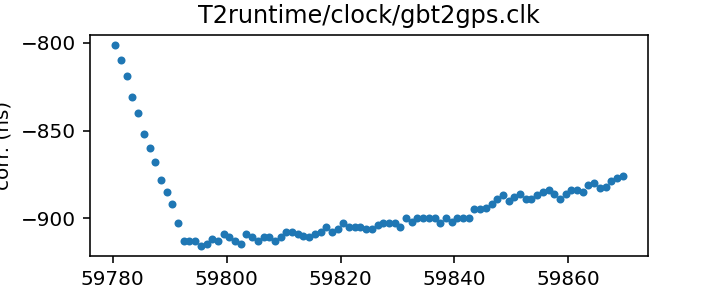
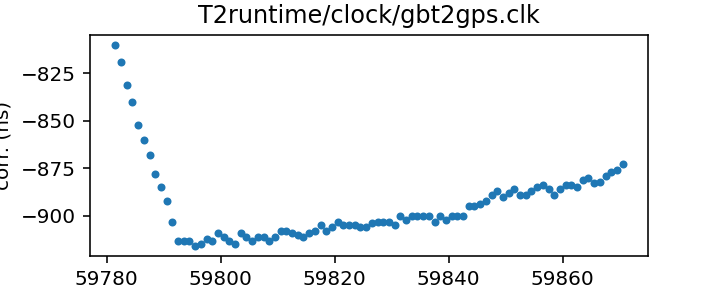
Routine gh-pages update from Github action Wed Oct 19 20:44:15 UTC 2022

diff --git a/status.md b/status.md
@@ -13,17 +13,17 @@ name of each clock file links to a page with more details.
 
 | Name | File | Corrections start | Corrections end | Last check date | Last check result 
 |:--- |:--- | --- | --- | --- |:--- 
-| [GPS to UTC](T2runtime/clock/gps2utc.clk.html) | `T2runtime/clock/gps2utc.clk` | 1993-01-01 MJD 48988.0 | 2022-09-27 MJD 59849.0 | 2022-10-18 | Unchanged 
-| [GPS to UTC (Combined Clock)](T2runtime/clock/gps2utc_cc.clk.html) | `T2runtime/clock/gps2utc_cc.clk` | 1993-01-01 MJD 48988.0 | 2022-09-27 MJD 59849.0 | 2022-10-18 | Unchanged 
-| [GPS to UTC (Corrected)](T2runtime/clock/gps2utc_c0p.clk.html) | `T2runtime/clock/gps2utc_c0p.clk` | 2010-12-29 MJD 55559.0 | 2022-09-27 MJD 59849.0 | 2022-10-18 | Unchanged 
-| [GBT](tempo/clock/time_gbt.dat.html) | `tempo/clock/time_gbt.dat` | 2000-12-31 MJD 51909.5 | 2022-10-17 MJD 59869.5 | 2022-10-18 | Updated 
-| [GBT (TEMPO2 converted from TEMPO)](T2runtime/clock/gbt2gps.clk.html) | `T2runtime/clock/gbt2gps.clk` | 2000-12-31 MJD 51909.5 | 2022-10-17 MJD 59869.5 | 2022-10-18 | Updated 
-| [Jodrell Bank](T2runtime/clock/jb2gps.clk.html) | `T2runtime/clock/jb2gps.clk` | 2006-10-13 MJD 54021.4 | 2021-11-03 MJD 59521.0 | 2022-10-12 | Unchanged 
-| [Jodrell Bank Roach](T2runtime/clock/jbroach2jb.clk.html) | `T2runtime/clock/jbroach2jb.clk` | 2006-10-13 MJD 54021.4 | 2018-03-20 MJD 58197.6 | 2022-10-12 | Unchanged 
-| [Jodrell Bank DFB](T2runtime/clock/jbdfb2jb.clk.html) | `T2runtime/clock/jbdfb2jb.clk` | 2006-10-13 MJD 54021.4 | 2017-05-11 MJD 57884.0 | 2022-10-12 | Unchanged 
+| [GPS to UTC](T2runtime/clock/gps2utc.clk.html) | `T2runtime/clock/gps2utc.clk` | 1993-01-01 MJD 48988.0 | 2022-09-27 MJD 59849.0 | 2022-10-19 | Unchanged 
+| [GPS to UTC (Combined Clock)](T2runtime/clock/gps2utc_cc.clk.html) | `T2runtime/clock/gps2utc_cc.clk` | 1993-01-01 MJD 48988.0 | 2022-09-27 MJD 59849.0 | 2022-10-19 | Unchanged 
+| [GPS to UTC (Corrected)](T2runtime/clock/gps2utc_c0p.clk.html) | `T2runtime/clock/gps2utc_c0p.clk` | 2010-12-29 MJD 55559.0 | 2022-09-27 MJD 59849.0 | 2022-10-19 | Unchanged 
+| [GBT](tempo/clock/time_gbt.dat.html) | `tempo/clock/time_gbt.dat` | 2000-12-31 MJD 51909.5 | 2022-10-18 MJD 59870.5 | 2022-10-19 | Updated 
+| [GBT (TEMPO2 converted from TEMPO)](T2runtime/clock/gbt2gps.clk.html) | `T2runtime/clock/gbt2gps.clk` | 2000-12-31 MJD 51909.5 | 2022-10-18 MJD 59870.5 | 2022-10-19 | Updated 
+| [Jodrell Bank](T2runtime/clock/jb2gps.clk.html) | `T2runtime/clock/jb2gps.clk` | 2006-10-13 MJD 54021.4 | 2021-11-03 MJD 59521.0 | 2022-10-19 | Unchanged 
+| [Jodrell Bank Roach](T2runtime/clock/jbroach2jb.clk.html) | `T2runtime/clock/jbroach2jb.clk` | 2006-10-13 MJD 54021.4 | 2018-03-20 MJD 58197.6 | 2022-10-19 | Unchanged 
+| [Jodrell Bank DFB](T2runtime/clock/jbdfb2jb.clk.html) | `T2runtime/clock/jbdfb2jb.clk` | 2006-10-13 MJD 54021.4 | 2017-05-11 MJD 57884.0 | 2022-10-19 | Unchanged 
 | [Meerkat (observatory)](T2runtime/clock/mk2utc_observatory.clk.html) | `T2runtime/clock/mk2utc_observatory.clk` | 2019-01-01 MJD 58484.0 | 2022-10-05 MJD 59858.0 | 2022-10-17 | Updated 
-| [Leap seconds](tempo/clock/leap.sec.html) | `tempo/clock/leap.sec` | 1972-07-01 MJD 41499.0 | 2017-01-01 MJD 57754.0 | 2022-10-18 | Unchanged 
-| [UT1 table](tempo/clock/ut1.dat.html) | `tempo/clock/ut1.dat` | 1973-01-02 MJD 41684.0 | 2023-10-21 MJD 60238.0 | 2022-10-18 | Unchanged 
+| [Leap seconds](tempo/clock/leap.sec.html) | `tempo/clock/leap.sec` | 1972-07-01 MJD 41499.0 | 2017-01-01 MJD 57754.0 | 2022-10-19 | Unchanged 
+| [UT1 table](tempo/clock/ut1.dat.html) | `tempo/clock/ut1.dat` | 1973-01-02 MJD 41684.0 | 2023-10-21 MJD 60238.0 | 2022-10-19 | Unchanged 
 
 
 
@@ -67,21 +67,21 @@ name of each clock file links to a page with more details.
 | [GBT (TEMPO2)](T2runtime/clock/gbt2gps_tempo2.clk.html) | `T2runtime/clock/gbt2gps_tempo2.clk` | 2000-12-31 MJD 51909.5 | 2020-02-25 MJD 58904.5 | 2022-10-17 | Unchanged 
 | [Jodrell Bank (TEMPO)](tempo/clock/time_jb.dat.html) | `tempo/clock/time_jb.dat` | 2006-10-13 MJD 54021.4 | 2019-05-13 MJD 58616.2 | 2022-10-13 | Unchanged 
 | [VLA](tempo/clock/time_vla.dat.html) | `tempo/clock/time_vla.dat` | 1990-10-27 MJD 48191.2 | 2021-03-07 MJD 59280.5 | 2022-10-13 | **Failed to download** 
-| [VLA (TEMPO2)](T2runtime/clock/vla2gps.clk.html) | `T2runtime/clock/vla2gps.clk` | 2015-02-01 MJD 57054.6 | 2021-03-07 MJD 59280.5 | 2022-10-12 | Unchanged 
-| [VLA to NIST](T2runtime/clock/vla2nist.clk.html) | `T2runtime/clock/vla2nist.clk` | 1990-10-27 MJD 48191.2 | 1993-11-13 MJD 49304.0 | 2022-10-12 | Unchanged 
+| [VLA (TEMPO2)](T2runtime/clock/vla2gps.clk.html) | `T2runtime/clock/vla2gps.clk` | 2015-02-01 MJD 57054.6 | 2021-03-07 MJD 59280.5 | 2022-10-19 | Unchanged 
+| [VLA to NIST](T2runtime/clock/vla2nist.clk.html) | `T2runtime/clock/vla2nist.clk` | 1990-10-27 MJD 48191.2 | 1993-11-13 MJD 49304.0 | 2022-10-19 | Unchanged 
 | [FAST](tempo/clock/time_fast.dat.html) | `tempo/clock/time_fast.dat` | 2017-07-26 MJD 57960.4 | 2019-09-18 MJD 58744.0 | 2022-10-13 | **Failed to download** 
 | [WSRT](T2runtime/clock/wsrt2gps.clk.html) | `T2runtime/clock/wsrt2gps.clk` | 1999-01-01 MJD 51179.5 | 2015-06-29 MJD 57202.1 | 2022-10-13 | Unchanged 
 | [WSRT (TEMPO)](tempo/clock/time_wsrt.dat.html) | `tempo/clock/time_wsrt.dat` | 1987-07-24 MJD 47000.0 | 2007-12-24 MJD 54458.0 | 2022-10-13 | **Validation failed** 
-| [Parkes](T2runtime/clock/pks2gps.clk.html) | `T2runtime/clock/pks2gps.clk` | 1858-11-17 MJD 0.0 | 2019-07-31 MJD 58695.4 | 2022-10-12 | Unchanged 
+| [Parkes](T2runtime/clock/pks2gps.clk.html) | `T2runtime/clock/pks2gps.clk` | 1858-11-17 MJD 0.0 | 2019-07-31 MJD 58695.4 | 2022-10-19 | Unchanged 
 | [Parkes (TEMPO)](tempo/clock/time_pks.dat.html) | `tempo/clock/time_pks.dat` | 1979-05-07 MJD 44000.0 | 2011-07-03 MJD 55745.8 | 2022-10-13 | **Validation failed** 
-| [SRT](T2runtime/clock/srt2gps.clk.html) | `T2runtime/clock/srt2gps.clk` | 2013-03-20 MJD 56371.0 | 2019-12-11 MJD 58828.0 | 2022-10-12 | Unchanged 
-| [Effelsberg](T2runtime/clock/eff2gps.clk.html) | `T2runtime/clock/eff2gps.clk` | 1993-11-29 MJD 49320.0 | 2015-06-22 MJD 57195.5 | 2022-10-12 | Unchanged 
-| [Effelsberg Asterix/PSRix](T2runtime/clock/effix2gps.clk.html) | `T2runtime/clock/effix2gps.clk` | 2011-01-01 MJD 55562.5 | 2021-03-21 MJD 59294.5 | 2022-10-12 | Unchanged 
+| [SRT](T2runtime/clock/srt2gps.clk.html) | `T2runtime/clock/srt2gps.clk` | 2013-03-20 MJD 56371.0 | 2019-12-11 MJD 58828.0 | 2022-10-19 | Unchanged 
+| [Effelsberg](T2runtime/clock/eff2gps.clk.html) | `T2runtime/clock/eff2gps.clk` | 1993-11-29 MJD 49320.0 | 2015-06-22 MJD 57195.5 | 2022-10-19 | Unchanged 
+| [Effelsberg Asterix/PSRix](T2runtime/clock/effix2gps.clk.html) | `T2runtime/clock/effix2gps.clk` | 2011-01-01 MJD 55562.5 | 2021-03-21 MJD 59294.5 | 2022-10-19 | Unchanged 
 | [NUPPI](tempo/clock/time_nuppi.dat.html) | `tempo/clock/time_nuppi.dat` | 2005-03-07 MJD 53436.0 | 2015-11-08 MJD 57334.6 | 2022-10-13 | Unchanged 
-| [Meerkat (TEMPO2)](T2runtime/clock/mk2utc.clk.html) | `T2runtime/clock/mk2utc.clk` | 2019-01-01 MJD 58484.0 | 2021-02-22 MJD 59268.0 | 2022-10-12 | Unchanged 
-| [MOST](T2runtime/clock/mo2gps.clk.html) | `T2runtime/clock/mo2gps.clk` | 2003-12-27 MJD 53000.0 | 2018-09-06 MJD 58367.0 | 2022-10-12 | Unchanged 
-| [Nancay to obspm](T2runtime/clock/ncyobs2obspm.clk.html) | `T2runtime/clock/ncyobs2obspm.clk` | 1988-05-18 MJD 47299.6 | 2021-11-01 MJD 59519.6 | 2022-10-12 | Unchanged 
-| [obspm](T2runtime/clock/obspm2gps.clk.html) | `T2runtime/clock/obspm2gps.clk` | 2003-12-01 MJD 52974.0 | 2021-08-28 MJD 59454.0 | 2022-10-12 | Unchanged 
+| [Meerkat (TEMPO2)](T2runtime/clock/mk2utc.clk.html) | `T2runtime/clock/mk2utc.clk` | 2019-01-01 MJD 58484.0 | 2021-02-22 MJD 59268.0 | 2022-10-19 | Unchanged 
+| [MOST](T2runtime/clock/mo2gps.clk.html) | `T2runtime/clock/mo2gps.clk` | 2003-12-27 MJD 53000.0 | 2018-09-06 MJD 58367.0 | 2022-10-19 | Unchanged 
+| [Nancay to obspm](T2runtime/clock/ncyobs2obspm.clk.html) | `T2runtime/clock/ncyobs2obspm.clk` | 1988-05-18 MJD 47299.6 | 2021-11-01 MJD 59519.6 | 2022-10-19 | Unchanged 
+| [obspm](T2runtime/clock/obspm2gps.clk.html) | `T2runtime/clock/obspm2gps.clk` | 2003-12-01 MJD 52974.0 | 2021-08-28 MJD 59454.0 | 2022-10-19 | Unchanged 
 
 
 ### Further information:

diff --git a/T2runtime/clock/gbt2gps.clk.md b/T2runtime/clock/gbt2gps.clk.md
@@ -23,14 +23,13 @@ If questions arise about the conversion, contact Anne Archibald
 | Format | tempo2 |
 | Bogus last correction | False |
 | Clock file start | 2000-12-31 MJD 51909.5 |
-| Clock file end | 2022-10-17 MJD 59869.5 |
+| Clock file end | 2022-10-18 MJD 59870.5 |
 | Update interval (days) | 1 |
-| Last update attempt | 2022-10-18 |
+| Last update attempt | 2022-10-19 |
 | Last update result | Updated |
 
 Log entries from the last few update attempts:
 ```
-2022-10-09 20:40:37.399 - Updated
 2022-10-10 20:41:53.295 - Updated
 2022-10-11 20:43:28.314 - Updated
 2022-10-12 20:43:13.750 - Updated
@@ -40,12 +39,13 @@ Log entries from the last few update attempts:
 2022-10-16 20:41:16.390 - Updated
 2022-10-17 20:42:40.638 - Updated
 2022-10-18 20:42:55.789 - Updated
+2022-10-19 20:43:35.281 - Updated
 ```
 [Full log](https://raw.githubusercontent.com/ipta/pulsar-clock-corrections/main/log/T2runtime/clock/gbt2gps.clk.log)
 
 Leading comments from clock file:
 
-    # This file was automatically converted from tempo/clock/time_gbt.dat on 2022-10-18 20:42:55.719
+    # This file was automatically converted from tempo/clock/time_gbt.dat on 2022-10-19 20:43:35.195
 
 
 

diff --git a/tempo/clock/time_gbt.dat.md b/tempo/clock/time_gbt.dat.md
@@ -18,14 +18,13 @@ If questions arise, contact Ryan S. Lynch <rlynch@nrao.edu>.
 | Format | tempo |
 | Bogus last correction | False |
 | Clock file start | 2000-12-31 MJD 51909.5 |
-| Clock file end | 2022-10-17 MJD 59869.5 |
+| Clock file end | 2022-10-18 MJD 59870.5 |
 | Update interval (days) | 1 |
-| Last update attempt | 2022-10-18 |
+| Last update attempt | 2022-10-19 |
 | Last update result | Updated |
 
 Log entries from the last few update attempts:
 ```
-2022-10-09 20:40:37.315 - Updated
 2022-10-10 20:41:52.818 - Updated
 2022-10-11 20:43:28.245 - Updated
 2022-10-12 20:43:13.648 - Updated
@@ -35,6 +34,7 @@ Log entries from the last few update attempts:
 2022-10-16 20:41:16.321 - Updated
 2022-10-17 20:42:40.189 - Updated
 2022-10-18 20:42:55.717 - Updated
+2022-10-19 20:43:35.192 - Updated
 ```
 [Full log](https://raw.githubusercontent.com/ipta/pulsar-clock-corrections/main/log/tempo/clock/time_gbt.dat.log)
 

diff --git a/T2runtime/clock/vla2nist.clk.md b/T2runtime/clock/vla2nist.clk.md
@@ -16,12 +16,11 @@ This file is pulled from the TEMPO2 repository and may not be fully up-to-date.
 | Clock file start | 1990-10-27 MJD 48191.2 |
 | Clock file end | 1993-11-13 MJD 49304.0 |
 | Update interval (days) | 7 |
-| Last update attempt | 2022-10-12 |
+| Last update attempt | 2022-10-19 |
 | Last update result | Unchanged |
 
 Log entries from the last few update attempts:
 ```
-2022-08-10 20:34:05.733 - Unchanged
 2022-08-17 20:34:04.884 - Unchanged
 2022-08-24 20:34:36.417 - Unchanged
 2022-08-31 20:34:57.441 - Unchanged
@@ -31,6 +30,7 @@ Log entries from the last few update attempts:
 2022-09-28 20:41:26.759 - Unchanged
 2022-10-05 20:42:16.288 - Unchanged
 2022-10-12 20:43:16.357 - Unchanged
+2022-10-19 20:43:37.784 - Unchanged
 ```
 [Full log](https://raw.githubusercontent.com/ipta/pulsar-clock-corrections/main/log/T2runtime/clock/vla2nist.clk.log)
 

diff --git a/T2runtime/clock/srt2gps.clk.md b/T2runtime/clock/srt2gps.clk.md
@@ -16,12 +16,11 @@ This file is pulled from the TEMPO2 repository and may not be fully up-to-date.
 | Clock file start | 2013-03-20 MJD 56371.0 |
 | Clock file end | 2019-12-11 MJD 58828.0 |
 | Update interval (days) | 7 |
-| Last update attempt | 2022-10-12 |
+| Last update attempt | 2022-10-19 |
 | Last update result | Unchanged |
 
 Log entries from the last few update attempts:
 ```
-2022-08-10 20:34:07.021 - Unchanged
 2022-08-17 20:34:05.471 - Unchanged
 2022-08-24 20:34:37.625 - Unchanged
 2022-08-31 20:34:57.967 - Unchanged
@@ -31,6 +30,7 @@ Log entries from the last few update attempts:
 2022-09-28 20:41:27.740 - Unchanged
 2022-10-05 20:42:17.397 - Unchanged
 2022-10-12 20:43:17.576 - Unchanged
+2022-10-19 20:43:38.934 - Unchanged
 ```
 [Full log](https://raw.githubusercontent.com/ipta/pulsar-clock-corrections/main/log/T2runtime/clock/srt2gps.clk.log)
 

diff --git a/T2runtime/clock/vla2gps.clk.md b/T2runtime/clock/vla2gps.clk.md
@@ -16,12 +16,11 @@ This file is pulled from the TEMPO2 repository and may not be fully up-to-date.
 | Clock file start | 2015-02-01 MJD 57054.6 |
 | Clock file end | 2021-03-07 MJD 59280.5 |
 | Update interval (days) | 7 |
-| Last update attempt | 2022-10-12 |
+| Last update attempt | 2022-10-19 |
 | Last update result | Unchanged |
 
 Log entries from the last few update attempts:
 ```
-2022-08-10 20:34:05.292 - Unchanged
 2022-08-17 20:34:04.699 - Unchanged
 2022-08-24 20:34:36.005 - Unchanged
 2022-08-31 20:34:57.244 - Unchanged
@@ -31,6 +30,7 @@ Log entries from the last few update attempts:
 2022-09-28 20:41:26.425 - Unchanged
 2022-10-05 20:42:15.905 - Unchanged
 2022-10-12 20:43:15.967 - Unchanged
+2022-10-19 20:43:37.417 - Unchanged
 ```
 [Full log](https://raw.githubusercontent.com/ipta/pulsar-clock-corrections/main/log/T2runtime/clock/vla2gps.clk.log)
 

diff --git a/T2runtime/clock/mk2utc.clk.md b/T2runtime/clock/mk2utc.clk.md
@@ -16,12 +16,11 @@ This file is pulled from the TEMPO2 repository and may not be fully up-to-date.
 | Clock file start | 2019-01-01 MJD 58484.0 |
 | Clock file end | 2021-02-22 MJD 59268.0 |
 | Update interval (days) | 7 |
-| Last update attempt | 2022-10-12 |
+| Last update attempt | 2022-10-19 |
 | Last update result | Unchanged |
 
 Log entries from the last few update attempts:
 ```
-2022-08-10 20:34:08.989 - Unchanged
 2022-08-17 20:34:06.331 - Unchanged
 2022-08-24 20:34:39.370 - Unchanged
 2022-08-31 20:34:58.692 - Unchanged
@@ -31,6 +30,7 @@ Log entries from the last few update attempts:
 2022-09-28 20:41:29.302 - Unchanged
 2022-10-05 20:42:19.128 - Unchanged
 2022-10-12 20:43:19.322 - Unchanged
+2022-10-19 20:43:40.600 - Unchanged
 ```
 [Full log](https://raw.githubusercontent.com/ipta/pulsar-clock-corrections/main/log/T2runtime/clock/mk2utc.clk.log)
 

diff --git a/T2runtime/clock/mo2gps.clk.md b/T2runtime/clock/mo2gps.clk.md
@@ -16,12 +16,11 @@ This file is pulled from the TEMPO2 repository and may not be fully up-to-date.
 | Clock file start | 2003-12-27 MJD 53000.0 |
 | Clock file end | 2018-09-06 MJD 58367.0 |
 | Update interval (days) | 7 |
-| Last update attempt | 2022-10-12 |
+| Last update attempt | 2022-10-19 |
 | Last update result | Unchanged |
 
 Log entries from the last few update attempts:
 ```
-2022-08-10 20:34:09.395 - Unchanged
 2022-08-17 20:34:06.487 - Unchanged
 2022-08-24 20:34:39.751 - Unchanged
 2022-08-31 20:34:58.882 - Unchanged
@@ -31,6 +30,7 @@ Log entries from the last few update attempts:
 2022-09-28 20:41:29.571 - Unchanged
 2022-10-05 20:42:19.459 - Unchanged
 2022-10-12 20:43:19.702 - Unchanged
+2022-10-19 20:43:40.969 - Unchanged
 ```
 [Full log](https://raw.githubusercontent.com/ipta/pulsar-clock-corrections/main/log/T2runtime/clock/mo2gps.clk.log)
 

diff --git a/T2runtime/clock/gps2utc_c0p.clk.md b/T2runtime/clock/gps2utc_c0p.clk.md
@@ -30,12 +30,11 @@ about the BIPM's published corrections, contact <tai@bipm.org>.
 | Clock file start | 2010-12-29 MJD 55559.0 |
 | Clock file end | 2022-09-27 MJD 59849.0 |
 | Update interval (days) | 1 |
-| Last update attempt | 2022-10-18 |
+| Last update attempt | 2022-10-19 |
 | Last update result | Unchanged |
 
 Log entries from the last few update attempts:
 ```
-2022-10-09 20:40:36.555 - Unchanged
 2022-10-10 20:41:52.081 - Unchanged
 2022-10-11 20:43:27.794 - Updated
 2022-10-12 20:43:12.700 - Unchanged
@@ -45,6 +44,7 @@ Log entries from the last few update attempts:
 2022-10-16 20:41:15.514 - Unchanged
 2022-10-17 20:42:39.443 - Unchanged
 2022-10-18 20:42:55.187 - Unchanged
+2022-10-19 20:43:34.318 - Unchanged
 ```
 [Full log](https://raw.githubusercontent.com/ipta/pulsar-clock-corrections/main/log/T2runtime/clock/gps2utc_c0p.clk.log)
 

diff --git a/T2runtime/clock/gps2utc_cc.clk.md b/T2runtime/clock/gps2utc_cc.clk.md
@@ -29,12 +29,11 @@ about the BIPM's published corrections, contact <tai@bipm.org>.
 | Clock file start | 1993-01-01 MJD 48988.0 |
 | Clock file end | 2022-09-27 MJD 59849.0 |
 | Update interval (days) | 1 |
-| Last update attempt | 2022-10-18 |
+| Last update attempt | 2022-10-19 |
 | Last update result | Unchanged |
 
 Log entries from the last few update attempts:
 ```
-2022-10-09 20:40:36.542 - Unchanged
 2022-10-10 20:41:52.067 - Unchanged
 2022-10-11 20:43:27.763 - Updated
 2022-10-12 20:43:12.687 - Unchanged
@@ -44,6 +43,7 @@ Log entries from the last few update attempts:
 2022-10-16 20:41:15.503 - Unchanged
 2022-10-17 20:42:39.433 - Unchanged
 2022-10-18 20:42:55.176 - Unchanged
+2022-10-19 20:43:34.306 - Unchanged
 ```
 [Full log](https://raw.githubusercontent.com/ipta/pulsar-clock-corrections/main/log/T2runtime/clock/gps2utc_cc.clk.log)
 

diff --git a/T2runtime/clock/gps2utc.clk.md b/T2runtime/clock/gps2utc.clk.md
@@ -32,12 +32,11 @@ about the BIPM's published corrections, contact <tai@bipm.org>.
 | Clock file start | 1993-01-01 MJD 48988.0 |
 | Clock file end | 2022-09-27 MJD 59849.0 |
 | Update interval (days) | 1 |
-| Last update attempt | 2022-10-18 |
+| Last update attempt | 2022-10-19 |
 | Last update result | Unchanged |
 
 Log entries from the last few update attempts:
 ```
-2022-10-09 20:40:36.502 - Unchanged
 2022-10-10 20:41:52.031 - Unchanged
 2022-10-11 20:43:27.682 - Updated
 2022-10-12 20:43:12.646 - Unchanged
@@ -47,6 +46,7 @@ Log entries from the last few update attempts:
 2022-10-16 20:41:15.471 - Unchanged
 2022-10-17 20:42:39.401 - Unchanged
 2022-10-18 20:42:55.143 - Unchanged
+2022-10-19 20:43:34.269 - Unchanged
 ```
 [Full log](https://raw.githubusercontent.com/ipta/pulsar-clock-corrections/main/log/T2runtime/clock/gps2utc.clk.log)
 

diff --git a/T2runtime/clock/ncyobs2obspm.clk.md b/T2runtime/clock/ncyobs2obspm.clk.md
@@ -21,12 +21,11 @@ thus here) can be expected to be somewhat up to date.
 | Clock file start | 1988-05-18 MJD 47299.6 |
 | Clock file end | 2021-11-01 MJD 59519.6 |
 | Update interval (days) | 7 |
-| Last update attempt | 2022-10-12 |
+| Last update attempt | 2022-10-19 |
 | Last update result | Unchanged |
 
 Log entries from the last few update attempts:
 ```
-2022-08-10 20:34:10.062 - Unchanged
 2022-08-17 20:34:06.711 - Unchanged
 2022-08-24 20:34:40.346 - Unchanged
 2022-08-31 20:34:59.125 - Unchanged
@@ -36,6 +35,7 @@ Log entries from the last few update attempts:
 2022-09-28 20:41:30.061 - Unchanged
 2022-10-05 20:42:20.037 - Unchanged
 2022-10-12 20:43:20.320 - Unchanged
+2022-10-19 20:43:41.580 - Unchanged
 ```
 [Full log](https://raw.githubusercontent.com/ipta/pulsar-clock-corrections/main/log/T2runtime/clock/ncyobs2obspm.clk.log)
 
